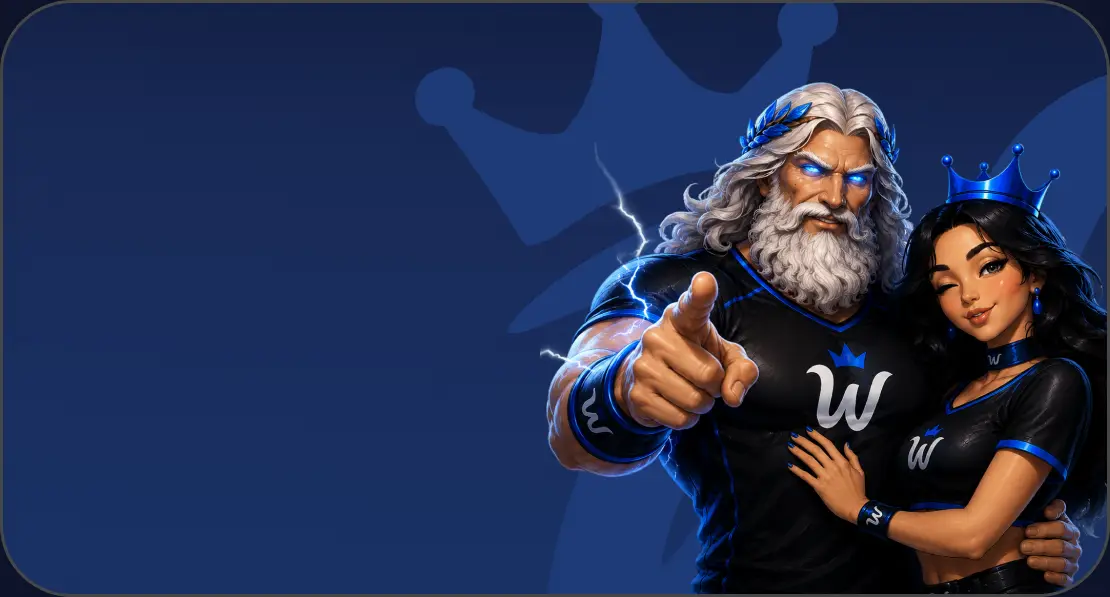
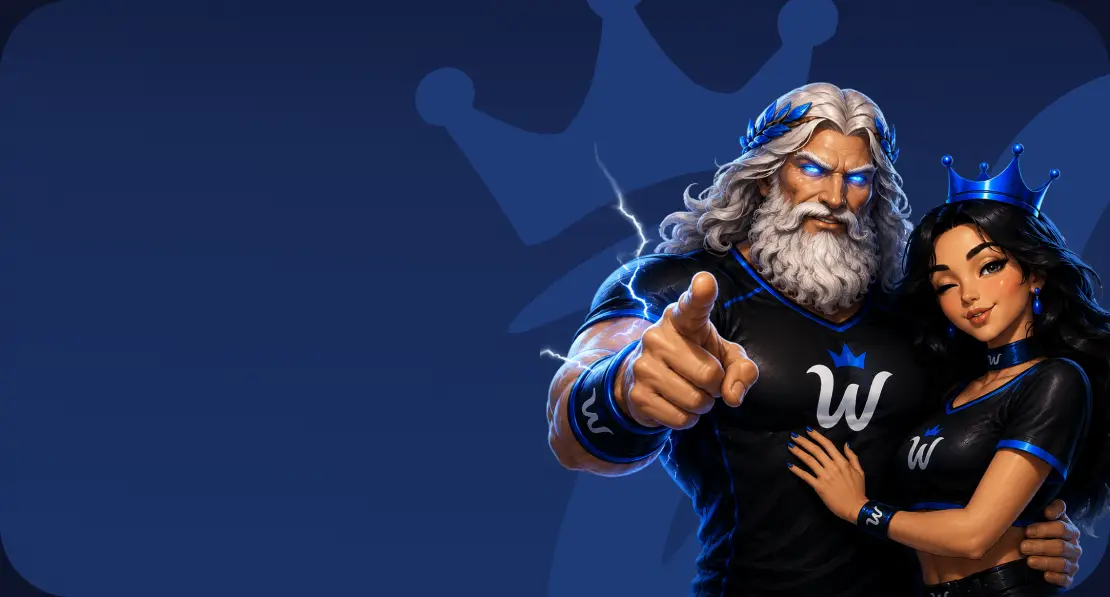
WarWin: обновление превью

diff --git a/index.html b/index.html
@@ -2041,8 +2041,12 @@ body {
     scrollbar-width: none;
   }
   body.is-authed .hero__mslides::-webkit-scrollbar { display: none; }
-  .mslide { position: relative; flex: 0 0 370px; height: 199px; overflow: hidden;
-            border-radius: 24px; scroll-snap-align: center; }
+  /* Кант 1px #464646 из макета рисуем стилем, а не картинкой: у первой
+     карточки он был впечатан в арт, у остальных его не было вовсе.
+     border-box — чтобы карточка осталась ровно 370x199, как в Figma. */
+  .mslide { position: relative; box-sizing: border-box; flex: 0 0 370px; height: 199px;
+            overflow: hidden; border: 1px solid #464646; border-radius: 24px;
+            scroll-snap-align: center; }
   .mslide__art { position: absolute; inset: 0; display: block;
                  width: 100%; height: 100%; object-fit: cover; }
   /* 920:31048 — копи-блок на (20,35): заголовок 158x48, подпись на 91,
